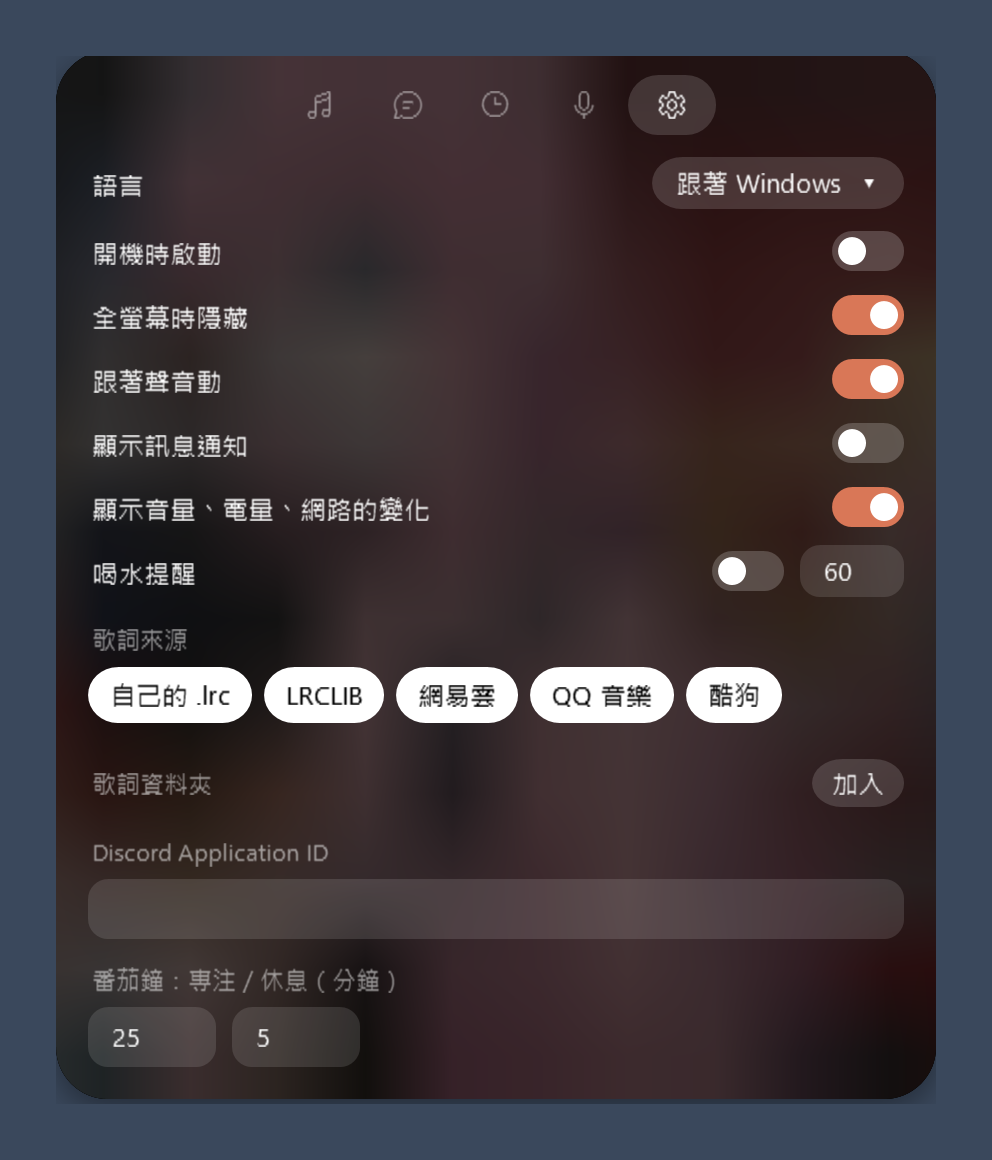
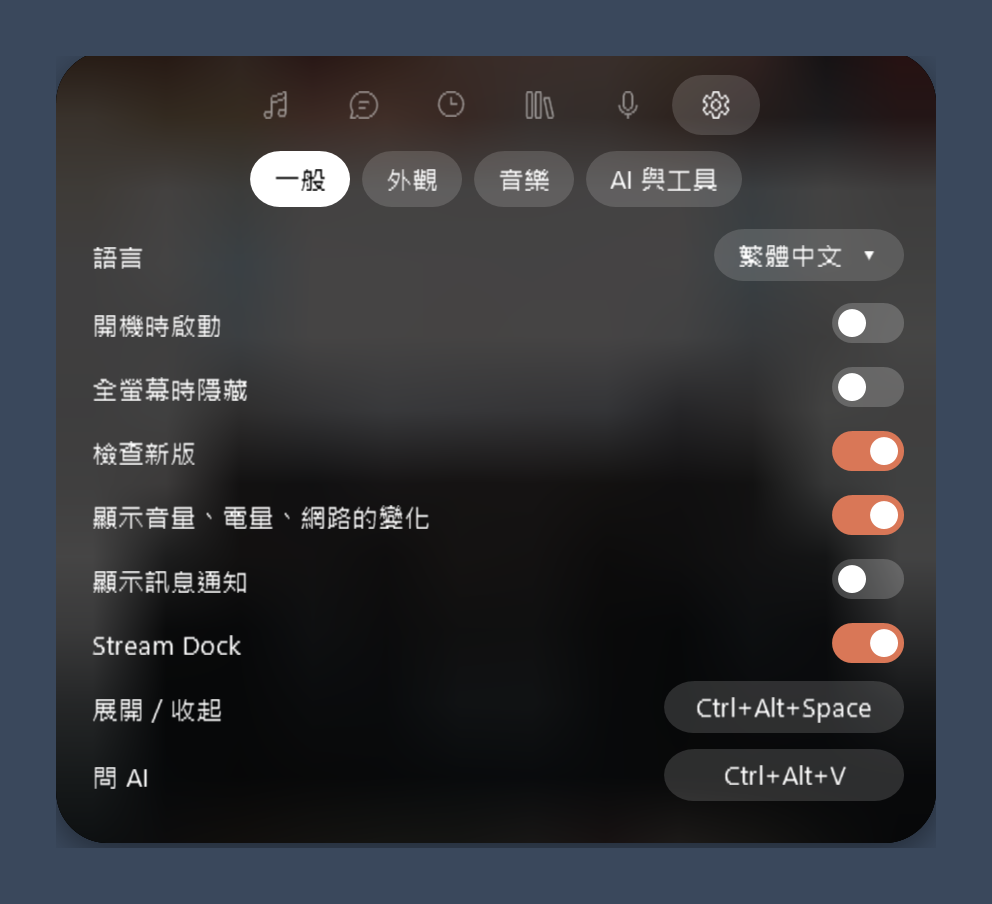
chore: 0.7.0，補英文 README 與新的截圖

diff --git a/src/Shima/IslandWindow.Hotkeys.cs b/src/Shima/IslandWindow.Hotkeys.cs
@@ -17,8 +17,8 @@ public partial class IslandWindow
     private IEnumerable<UIElement> HotkeySettingsRows()
     {
         _hotkeyShows.Clear();   // 設定頁重建了，舊的那兩顆按鈕不在畫面上了
-        yield return HotkeyRow("展開／收起", () => ToggleHotkey, () => AskHotkey, v => AppSettings.Current.HotkeyToggle = v, () => AppSettings.Current.HotkeyToggle, () => RegisterToggle(), RegisterAsk);
-        yield return HotkeyRow("問 AI", () => AskHotkey, () => ToggleHotkey, v => AppSettings.Current.HotkeyAsk = v, () => AppSettings.Current.HotkeyAsk, RegisterAsk, () => RegisterToggle());
+        yield return HotkeyRow("展開／收起", () => ToggleHotkey, () => AskHotkey, v => AppSettings.Current.HotkeyToggle = v, () => AppSettings.Current.HotkeyToggle, () => RegisterToggle(), RegisterAsk, "Ctrl+Alt+Space");
+        yield return HotkeyRow("問 AI", () => AskHotkey, () => ToggleHotkey, v => AppSettings.Current.HotkeyAsk = v, () => AppSettings.Current.HotkeyAsk, RegisterAsk, () => RegisterToggle(), "Ctrl+Alt+V");
     }
 
     /// <summary>
@@ -26,11 +26,13 @@ public partial class IslandWindow
     /// Esc 取消，Backspace／Delete 還原預設。
     /// </summary>
     /// <param name="other">另一組目前實際用的組合。錄製時兩組都拆掉了，但這個字串要到重新註冊才會變。</param>
-    private DockPanel HotkeyRow(string name, Func<string> actual, Func<string> other, Action<string> store, Func<string> saved, Func<bool> register, Func<bool> registerOther)
+    private DockPanel HotkeyRow(string name, Func<string> actual, Func<string> other, Action<string> store, Func<string> saved, Func<bool> register, Func<bool> registerOther, string standard)
     {
         var button = new Button { Style = (Style)FindResource("Pill"), Height = 26, MinWidth = 120, Padding = new Thickness(12, 0, 12, 0), Focusable = true };
         bool recording = false;
-        void Show() => button.Content = recording ? L.T("按下新的組合") : actual() is { Length: > 0 } text ? text : "—";
+        // 截圖模式不註冊全域快速鍵，沒有「實際用的那一組」：顯示設定的或預設的
+        void Show() => button.Content = recording ? L.T("按下新的組合") : actual() is { Length: > 0 } text ? text
+            : _smoke ? (saved() is { Length: > 0 } wanted ? wanted : standard) : "—";
         _hotkeyShows.Add(Show);
 
         // 錄製時兩組都拆掉了：結束後照設定註冊回去，兩列都更新

diff --git a/docs/README.en.md b/docs/README.en.md
@@ -29,17 +29,19 @@ A small island at the top of your Windows screen: it shows what is playing with 
 - **Character**: lives in the pill and moves to the actual sound (right-click → Character). The default is a pixel Claude, a homage to the Claude Code mascot, animated frame by frame like a GIF
 - **Reacts to sound**: the level bars and the character follow what your computer is really playing; the light and the progress bar take their colour from the cover
 - **Discord status**: the song, cover and progress on your profile
-- **Tools**: pomodoro timer, file shelf (drop files on the island, drag them out later), to-do list, calendar, water reminder
+- **Tools**: pomodoro timer, shelf (drop files, text or screenshots on the island, or press Paste; drag them out later), to-do list, reminders (type `15:30 meeting` or `20m water` and press Enter), calendar, water reminder
 - **System status**: volume, brightness, battery, network and output device (headphones plugged in or out) shown on the island when they change
+- **Output device**: the speaker button on the music tab and the pill's right-click menu switch the Windows default playback device (headphones, speakers, DAC); the spectrum and the character follow the new output
 - **11 languages**: 繁體中文, 简体中文, English, 日本語, 한국어, Español, Français, Deutsch, Português, Italiano, Русский. Follows Windows by default; change it in Settings
 - **Chat**: the web versions of Claude, Gemini and ChatGPT inside the island; sign in once
-- **Claude Code**: permission requests appear on the island with Allow / Deny / In terminal; its task progress is shown (3/5 · what it is doing) and you are told when it finishes
-- **Ask an AI**: type on the AI tab, or speak and have the answer read aloud; it can skip songs for you; Ctrl+Alt+V asks one question from anywhere. Works with Claude, OpenAI, Gemini, DeepSeek, xAI, Mistral, Groq, OpenRouter, a local Ollama, or any OpenAI-compatible service
+- **Claude Code**: permission requests appear on the island with Allow / Deny / In terminal; frequent commands can be set to "Always allow", and the remembered rules can be removed one by one on the AI tab; its task progress is shown (3/5 · what it is doing) and you are told when it finishes
+- **Codex CLI, Gemini CLI**: when their settings are found on this PC, each gets its own Connect row on the AI tab. Codex permission requests can be allowed or denied on the island; Gemini CLI only shows session status and completion
+- **Ask an AI**: type on the AI tab, or speak and have the answer read aloud; answers appear as they are generated; it can skip songs for you; Ctrl+Alt+V asks one question from anywhere. Works with Claude, OpenAI, Gemini, DeepSeek, xAI, Mistral, Groq, OpenRouter, a local Ollama, or any OpenAI-compatible service
 - **Message notifications**: Discord, LINE, Telegram and other messengers flash on the island (turn it on in Settings)
 - **Roon queue**: the list button on the music tab shows what plays next; click a track to start from it, toggle shuffle and loop. Search is off by default (`RoonSearch`): turning it on makes Roon ask you to enable Shima again under Settings → Extensions
 - **Word-by-word lyrics**: when a lyric file carries per-word timing (enhanced LRC), the sweep follows each word; the online sources do not provide it today
-- **Desktop lyrics**: a line of lyrics floating on the desktop, visible over borderless fullscreen apps (right-click → Desktop lyrics); locked and click-through by default
-- **Listening history**: kept only on this PC (`history.jsonl`), with weekly / monthly / yearly time, plays and top tracks on the listening tab; optional ListenBrainz scrobbling
+- **Desktop lyrics**: a line of lyrics floating on the desktop, visible over borderless fullscreen apps (right-click → Desktop lyrics); locked and click-through by default; hidden for tracks (or videos) without synced lyrics
+- **Listening history**: kept only on this PC (`history.jsonl`), with weekly / monthly / yearly time, plays and top tracks on the listening tab; optional scrobbling to ListenBrainz and Last.fm (both can be on at once)
 - **Saved lines, explain a line**: save the line being sung, search it later, turn it into a card; or ask the AI to explain its reading, words and grammar
 - **Claude Code sessions**: one row per session with its state and plan progress, today's token use and estimated cost, and "always allow" for commands you approve often
 - **More assistant skills**: weather, reminders, opening sites and common apps, arithmetic, reading clipboard text; an optional wake word
@@ -65,7 +67,9 @@ After the first start, enable **Shima** in Roon under Settings → Extensions.
 | Ctrl+Alt+Space | Open / close (falls back to Ctrl+Alt+I, then Ctrl+Shift+Space, when another program owns it; a toast at startup tells you) |
 | Ctrl+Alt+V | Ask the voice assistant one question |
 
-The tray icon hides the island or quits. The gear at the right of the open panel is Settings.
+Both can be changed under Settings → General: click the button and press the new combination; Esc cancels, Backspace or Delete restores the default.
+
+The tray icon hides the island or quits; "Do not disturb (1 hour)" in its menu pauses the water reminder, messenger notifications and system status (Claude Code permission requests, your own reminders and the pomodoro still show). The gear at the right of the open panel is Settings, split into General, Look, Music, and AI & tools.
 
 ## Building it yourself
 
@@ -82,6 +86,10 @@ This publishes a single executable, installs it to `%LOCALAPPDATA%\Shima\Shima.e
 Open the island → the microphone tab.
 
 **Claude Code**: Connect adds four hooks to Claude Code's `settings.json` (one for Windows, one for the default WSL distribution). They only use `curl.exe` to send events to `localhost:47813`, which Shima listens on. Disconnect removes them and leaves everything else alone. Before the first change a copy is kept as `settings.json.before-shima.bak`. When Shima is not running, or the island is hidden behind a full-screen app, Claude Code asks in the terminal as usual.
+
+**Other agents**: Codex CLI uses `~/.codex/hooks.json`; after connecting, run `/hooks` in Codex and trust Shima's hook for it to take effect. Gemini CLI uses `~/.gemini/settings.json`; its hooks cannot approve on your behalf, so only status and completion are shown. Each agent has its own key that only opens its own URLs, and "Always allow" applies to Claude Code only. A `.before-shima.bak` copy is kept before the first change here too.
+
+**Last.fm**: fill in your own API key and shared secret (from last.fm/api) under Settings → Music and press Connect to authorise in the browser. Once connected, the title, artist, album, duration and start time of what you play are sent to ws.audioscrobbler.com. The shared secret and session key are stored encrypted with Windows DPAPI.
 
 **Ask an AI**: pick a service, paste that provider's API key (stored encrypted with Windows DPAPI, readable only by your Windows account), then press the model button and choose from the list that provider actually offers. After that, type in the box, or press the microphone and speak: one question, and it stops after answering; it listens once more only when it asks you something back. The conversation goes to the provider you chose and is billed by them.
 

diff --git a/README.md b/README.md
@@ -30,7 +30,7 @@ Windows 螢幕頂端的一座小島：顯示正在播放的音樂、同步歌詞
 - **跟著聲音動**：音量條與展開時背景的頻譜是電腦實際播出的聲音（低音在左、高音在右），角色會跟著低音的拍子跳；掃光與進度條的顏色取自封面
 - **Roon 佇列**：音樂分頁的清單按鈕顯示接下來要播的歌，點一首就從那首開始；可以切換隨機與循環。搜尋要到設定頁打開「Roon 搜尋」，並到 Roon「設定 → 擴充功能」重新啟用 Shima 一次
 - **逐字歌詞**：歌詞檔帶有逐字時間（加強版 LRC：`[00:12.00]<00:12.00>字<00:12.40>字`）時，光會照每個字的時間走；線上來源目前拿不到逐字資料，仍是整句等速
-- **桌面歌詞**：一條浮在桌面上的歌詞，全螢幕時也看得到（右鍵 → 桌面歌詞）。預設鎖定、滑鼠穿透；取消鎖定後可以拖、滾輪調字的大小。獨佔全螢幕的遊戲蓋不上去
+- **桌面歌詞**：一條浮在桌面上的歌詞，全螢幕時也看得到（右鍵 → 桌面歌詞）。預設鎖定、滑鼠穿透；取消鎖定後可以拖、滾輪調字的大小。沒有同步歌詞的歌（或影片）不顯示。獨佔全螢幕的遊戲蓋不上去
 - **聆聽紀錄**：記下聽了什麼（只存在這台電腦的 `history.jsonl`），聆聽分頁有本週／本月／今年的時間、次數、最常聽的歌與藝人；可以回報到 ListenBrainz 與 Last.fm（兩邊可以同時開）
 - **收藏歌詞**：按愛心收藏正在唱的那句，之後在聆聽分頁搜尋、做成卡片
 - **解釋歌詞**：右鍵 → 解釋這句歌詞，請 AI 說明讀音、單字與文法
